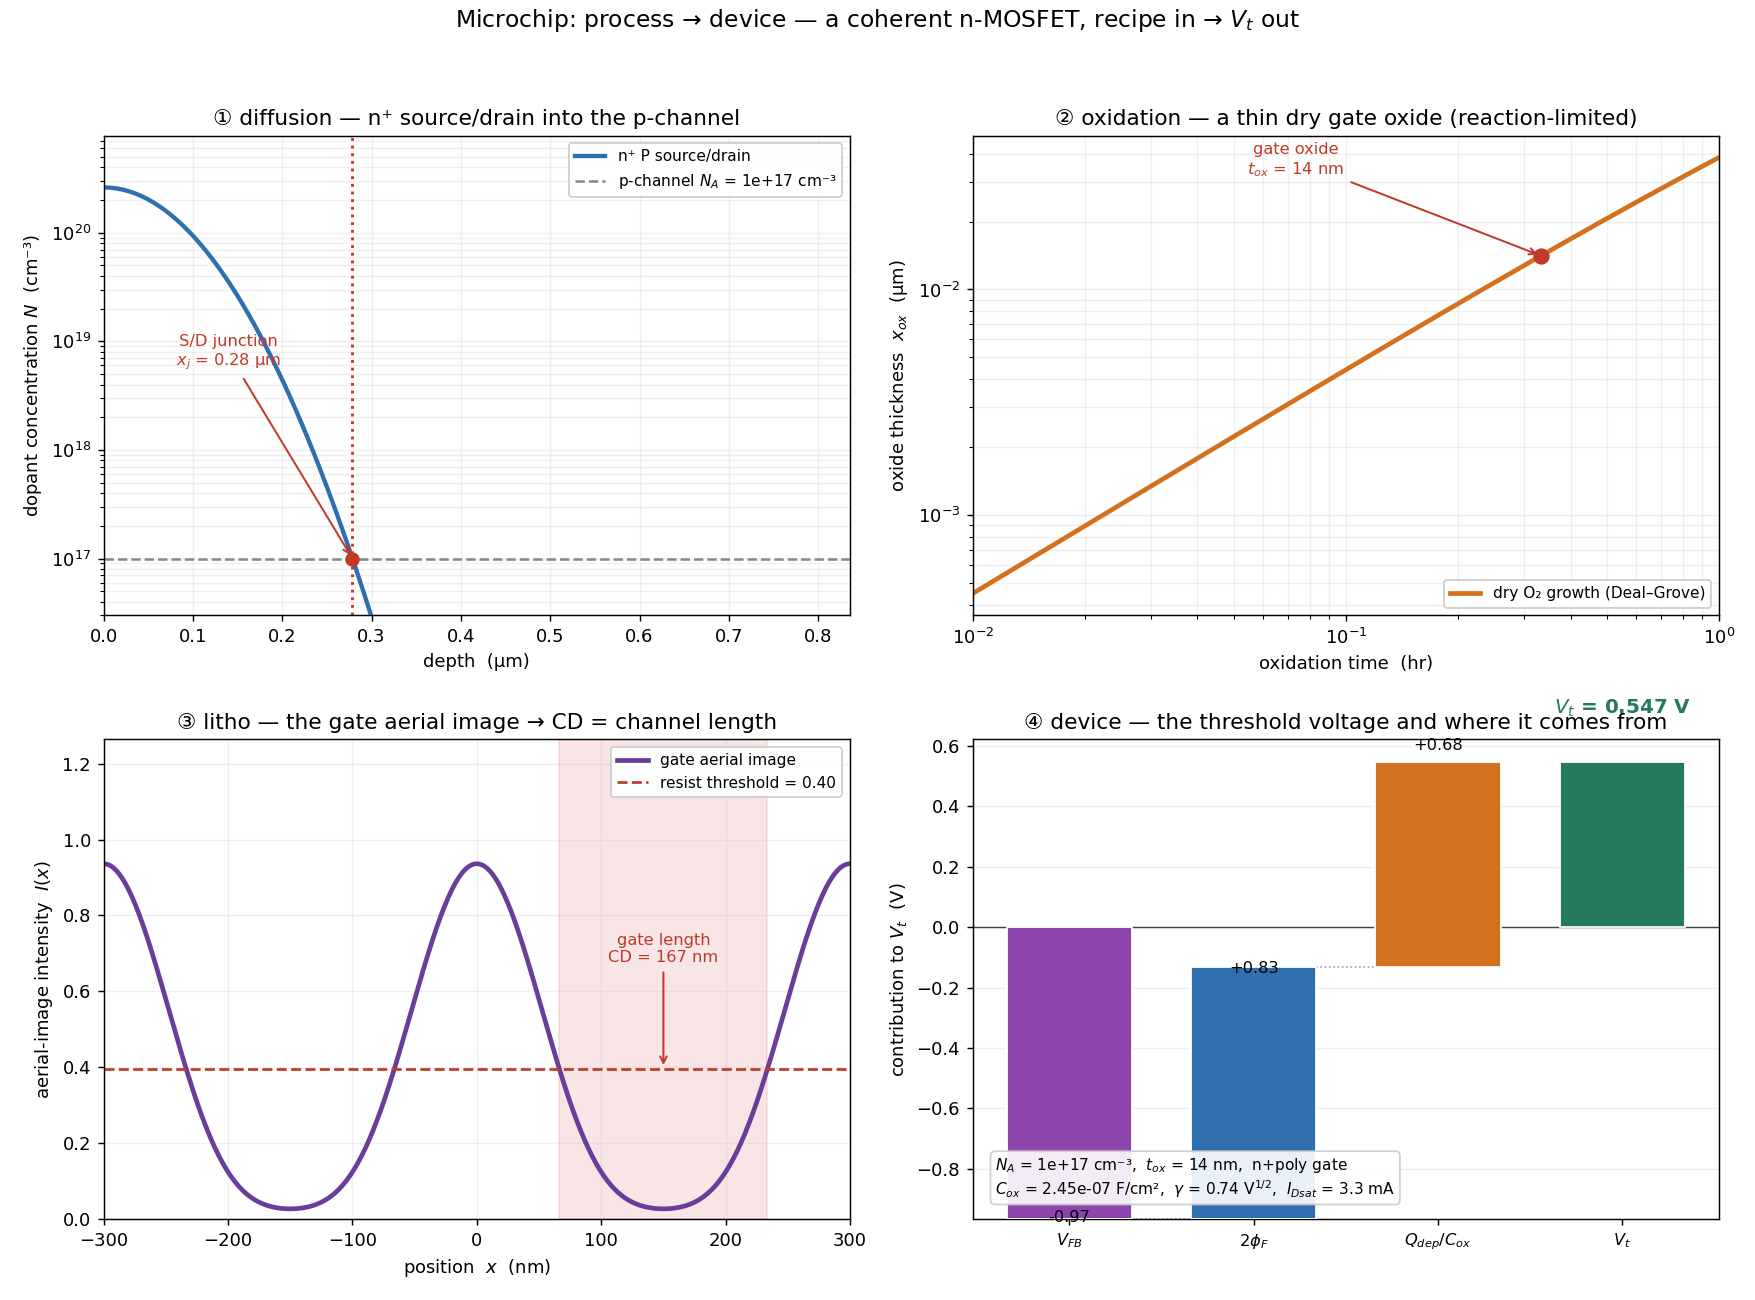
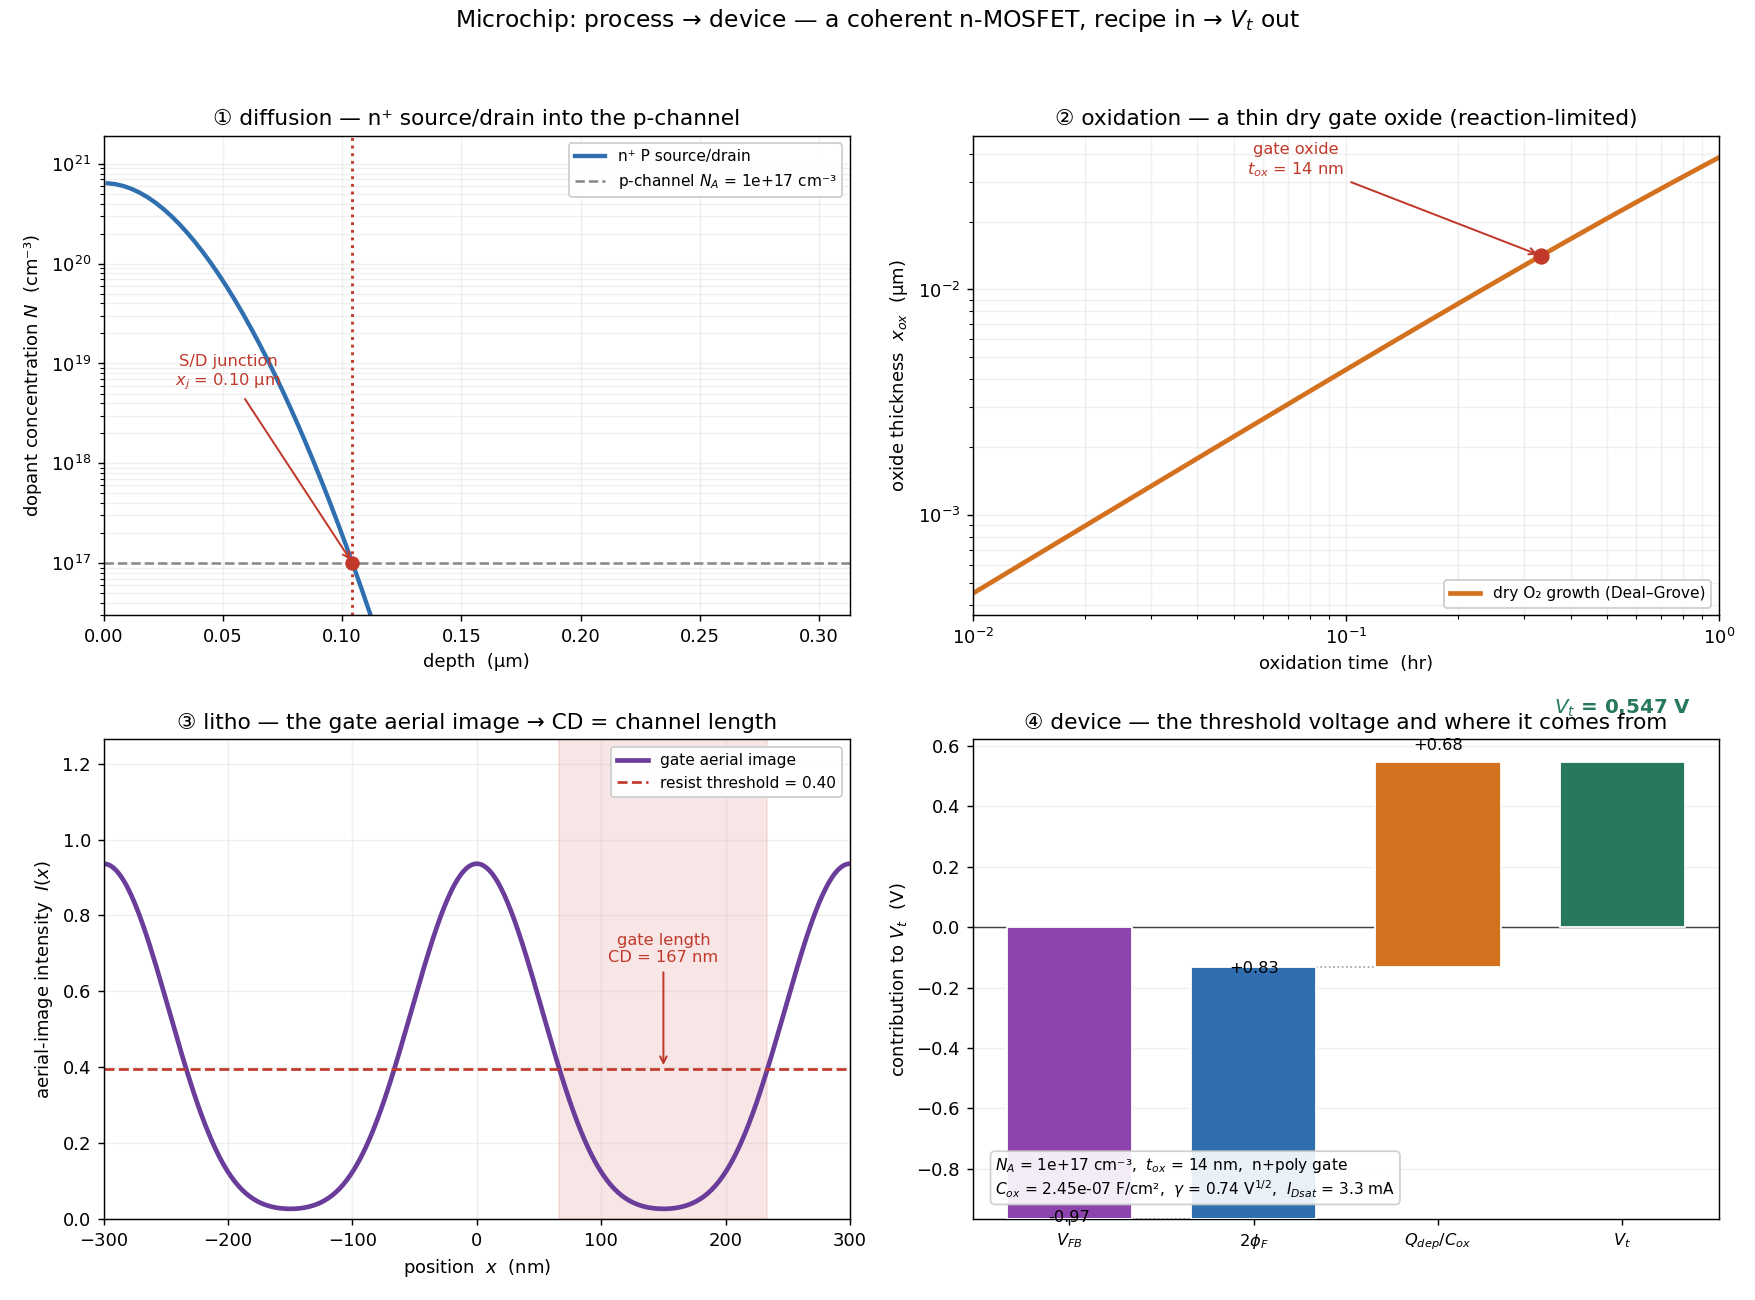
chip Phase 4 follow-up: demo integration test + coherent S/D geometry
Second advisor pass flagged two gaps a green gate couldn't see:

- No test_demo_device.py — every prior phase ships a demo integration test, and
  the committed README already pointed at it. Add it (mirrors test_demo_oxidation):
  asserts the chain consumes the real upstream outputs, a sane V_t, a thin
  reaction-limited gate oxide, a resolved gate, S/D shallower than the gate length,
  and builds the figure under [viz].

- Punchthrough cross-section: S/D x_j (0.28 µm) was deeper than the gate is long
  (0.167 µm). Shallower S/D drive-in (950 °C / 8 min) → x_j ≈ 0.10 µm < gate length,
  a coherent cross-section. V_t is unchanged (independent of x_j).

Also softened the conservation docstring: neutrality/Gauss hold by construction
(a self-consistency check) — the independent leg is the Poisson anchor.

20-test triad (15 device + 5 demo); whole-repo fast gate 336 green.

diff --git a/chip/tests/test_demo_device.py b/chip/tests/test_demo_device.py
@@ -1,0 +1,69 @@
+"""Integration test for the device demo (Chip Phase 4 — the demo IS the integration test).
+
+The device demo wires the **whole process→device flow** — ``diffusion_dopant.two_step`` (the n⁺ S/D
+profile) → ``oxidation.grow_oxide`` (the thin gate oxide) → ``litho.expose_grating`` (the gate CD) →
+``device.threshold_voltage`` (the V_t) → ``plots.device_figure``. Its ``compute`` pipeline is the
+end-to-end check that they **chain into one coherent device**, asserted on the robust thesis (a sane
+V_t, a thin gate oxide, a resolved gate, and the S/D shallower than the channel is long) — not brittle
+exact numbers (those are pinned in ``test_device.py`` against the MIT worked example).
+
+This is the test that guards the *chaining* and the figure render: the 15 ``test_device.py`` tests
+exercise ``device.py`` with hardcoded inputs and never call the demo, so without this a refactor in
+oxidation/litho/diffusion could silently break the banked artifact.
+
+The figure is **not** in the correctness path (ADR 0002): rendering is checked only for "builds
+without error", and skipped where the optional viz extra is absent.
+"""
+import pytest
+
+from projects.chip.demo_device import compute, CHANNEL_N_A, GATE
+
+
+def test_demo_pipeline_chains_to_a_coherent_device():
+    r = compute()
+    m = r.mos
+    # The device consumed the actual upstream outputs (not stand-ins) — the chaining is real.
+    assert m.N_A == CHANNEL_N_A
+    assert m.t_ox_um == pytest.approx(r.gate_oxide.t_ox)              # gate oxide → C_ox
+    assert m.channel_length_um == pytest.approx(r.gate_feature.cd_um)  # litho CD → channel length
+    assert m.gate == GATE
+    # A sane n-MOSFET threshold voltage (cf. the cited MIT example at exactly 15 nm → 0.58 V; this
+    # demo's ~14 nm oxide gives a slightly lower value).
+    assert 0.4 < m.V_t < 0.7
+
+
+def test_demo_gate_oxide_is_thin_and_reaction_limited():
+    # A GATE oxide (tens of nm in the linear regime) — NOT the banked Phase-2 field oxide (sub-µm).
+    # Feeding a thick field oxide into C_ox would collapse V_t; this guards that the demo grows a
+    # proper gate oxide (the advisor's "one coherent device" requirement).
+    r = compute()
+    assert r.gate_oxide.t_ox_nm < 30.0
+    assert r.gate_oxide.regime == "linear"
+
+
+def test_demo_gate_is_resolved_and_geometry_is_coherent():
+    # The litho gate prints (resolves), and the cross-section is sensible: the S/D junction is
+    # SHALLOWER than the gate is long (x_j < L) — i.e. the source/drain do not punch through under a
+    # channel shorter than they are deep. The "coherent device, not three unrelated numbers" claim.
+    r = compute()
+    assert r.gate_feature.resolved
+    assert r.gate_feature.nils > 1.0                                  # a printable gate (NILS ≳ 1)
+    assert r.sd_junction.x_j_um < r.mos.channel_length_um            # S/D shallower than the gate length
+
+
+def test_demo_drive_current_is_positive_and_geometry_driven():
+    # The honest long-channel payoff: a positive saturation current that the litho CD (→ W/L) sets.
+    r = compute()
+    assert r.i_dsat > 0.0
+
+
+def test_device_figure_builds():
+    # Viz smoke test only (never a correctness check): skip cleanly without the extra.
+    plt = pytest.importorskip("matplotlib")
+    plt.use("Agg")
+    from projects.chip.plots import device_figure
+
+    r = compute()
+    fig = device_figure(r)
+    assert len(fig.axes) == 4                          # diffusion / oxidation / litho / device panels
+    plt.pyplot.close(fig)

diff --git a/chip/device.py b/chip/device.py
@@ -42,11 +42,14 @@ Validation triad (plan §4) — what is asserted tight vs loose
   vs :func:`depletion_charge`). The body-effect √-law (:func:`threshold_voltage` vs ``γ`` form) is kept
   only as a **cheap γ-consistency check** — it catches a ``γ`` typo but anchors no physics (it is the
   same formula rearranged), so it is *not* billed as the anchor.
-* **Conservation (tight) — MOS charge neutrality / Gauss's law.** The gate charge balances the
+* **Conservation — MOS charge neutrality / Gauss's law.** The gate charge balances the
   semiconductor charge, ``Q_g = −(Q_dep + Q_inv)`` (:func:`gate_charge`, :func:`inversion_charge`):
   above threshold every extra volt of ``V_GB − V_t`` goes entirely into inversion charge,
-  ``Q_inv = −C_ox·(V_GB − V_t)``, and Gauss's law sets the oxide field ``E_ox = Q_g/ε_ox``. The two
-  bookkeepings of ``Q_inv`` (``−C_ox(V_GB−V_t)`` vs ``C_ox(V_GB−V_FB−2φ_F) − Q_dep``) close identically.
+  ``Q_inv = −C_ox·(V_GB − V_t)``, and Gauss's law sets the oxide field ``E_ox = Q_g/ε_ox``. This leg is
+  the model's **own charge accounting** — neutrality and Gauss hold *by construction*, so it is a
+  self-consistency check (the genuinely-independent verification is the Poisson anchor above). What it
+  externally anchors is the MIT P2b,c arithmetic: ``V_GB ≈ 4.9 V`` for ``Q_inv = −1e-6 C/cm²``, and
+  ``1e-6/ε_ox ≈ 2.9e6 V/cm`` — which mainly re-check the already-pinned ``C_ox``/``ε_ox``.
 * **Benchmark (loose) — V_t vs process knobs, vs the cited worked example.** The reference is **MIT
   6.012 PS3 (Spring 2007), Problem 2** ([[mos-threshold-voltage-source]]): an n⁺-poly / p-substrate
   ``N_A = 1e17`` / ``t_ox = 15 nm`` device gives ``V_FB = −0.97 V``, ``C_ox = 2.3e-7 F/cm²``,

diff --git a/chip/demo_device.py b/chip/demo_device.py
@@ -38,8 +38,8 @@ from .diffusion_dopant import DopantProfile
 # --- The coherent n-MOSFET recipe (one device through every step) ----------- #
 CHANNEL_N_A = 1.0e17            # cm⁻³ — p-type boron channel/substrate doping (the Phase-1 wafer)
 SD_DOPANT = "P"                # n⁺ phosphorus source/drain (types flipped from the Phase-1a banked demo)
-SD_PREDEP = (950.0, 15.0)      # S/D predep: °C, minutes
-SD_DRIVEIN = (1000.0, 30.0)    # S/D drive-in: °C, minutes
+SD_PREDEP = (950.0, 10.0)      # S/D predep: °C, minutes
+SD_DRIVEIN = (950.0, 8.0)      # S/D drive-in: °C, minutes → shallow x_j ≈ 0.10 µm < gate length (coherent)
 SUBSTRATE_LENGTH_UM = 2.0
 
 GATE_OX_AMBIENT = "dry"        # dry O₂ — the controllable gate-oxide ambient (thin, reaction-limited)

diff --git a/docs/plans/microchip-fabrication.md b/docs/plans/microchip-fabrication.md
@@ -423,8 +423,10 @@ from a 100 %-complete Steel to Chip.
 > field oxide), and the gate CD (a Phase-3 litho feature → channel length ``L``). With `demo_device.py` +
 > `plots.device_figure` (the banked artifact: the **whole forward flow on one figure** — diffusion →
 > oxidation → litho → the ``V_t`` *waterfall* → `docs/figures/chip-device.png`; channel ``N_A``=1e17,
-> dry-O₂ 1000 °C/20 min → 14 nm gate oxide, 193 nm-ArF litho → 167 nm gate → **``V_t`` ≈ 0.55 V**,
-> ``I_Dsat`` ≈ 3.3 mA). **15-test triad** sealed; whole-repo fast gate **331 green** (+15). Triad:
+> dry-O₂ 1000 °C/20 min → 14 nm gate oxide, 193 nm-ArF litho → 167 nm gate, shallow n⁺ S/D
+> (``x_j`` ≈ 0.10 µm < the gate length → a coherent cross-section, not punchthrough) → **``V_t`` ≈ 0.55 V**,
+> ``I_Dsat`` ≈ 3.3 mA). **20-test triad** sealed (15 device + 5 demo-integration); whole-repo fast gate
+> **336 green** (+20). Triad:
 > *analytic* = an **INDEPENDENT depletion-Poisson integration** — ``solve_ivp`` on ``ψ″=q·N_A/ε_Si`` +
 > ``brentq`` root-find of the depletion width where ``ψ_s=2φ_F``, recovering ``Q_dep=√(2qε_Si N_A·2φ_F)``
 > to ~1e-9 (the **Phase-2 solve_ivp analogue** — *not* the body-effect √-law, which is the same formula

diff --git a/chip/README.md b/chip/README.md
@@ -88,8 +88,9 @@ mode**. Full plan: [`docs/plans/microchip-fabrication.md`](../../docs/plans/micr
   long-channel `I_Dsat` — a chip-local model, **not** the engine) + `demo_device.py` +
   `plots.device_figure`. Banked artifact: the **whole process→device flow on one figure** — a coherent
   n-MOSFET chained diffusion → oxidation → litho → `V_t` (`docs/figures/chip-device.png`); channel
-  `N_A` = 1e17, dry-O₂ 14 nm gate oxide, 167 nm litho gate → **`V_t` ≈ 0.55 V** (cf. the cited MIT
-  6.012 worked example at exactly 15 nm → 0.58 V). 15-test triad green: the **independent
+  `N_A` = 1e17, dry-O₂ 14 nm gate oxide, 167 nm litho gate, shallow n⁺ S/D (`x_j` ≈ 0.10 µm <
+  gate length → coherent cross-section) → **`V_t` ≈ 0.55 V** (cf. the cited MIT 6.012 worked example
+  at exactly 15 nm → 0.58 V). 20-test triad green (15 device + 5 demo): the **independent
   depletion-Poisson anchor** (not the √-law), charge-neutrality/Gauss conservation, the MIT benchmark.
 
 ## Test runner (tiered gate, ADR 0003)